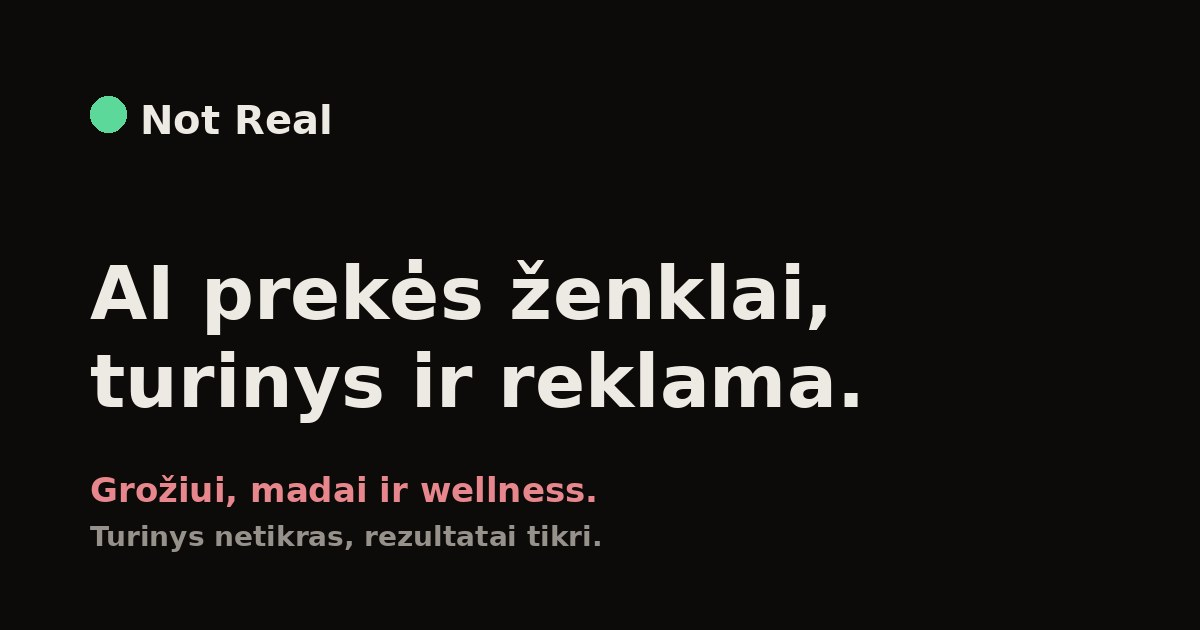
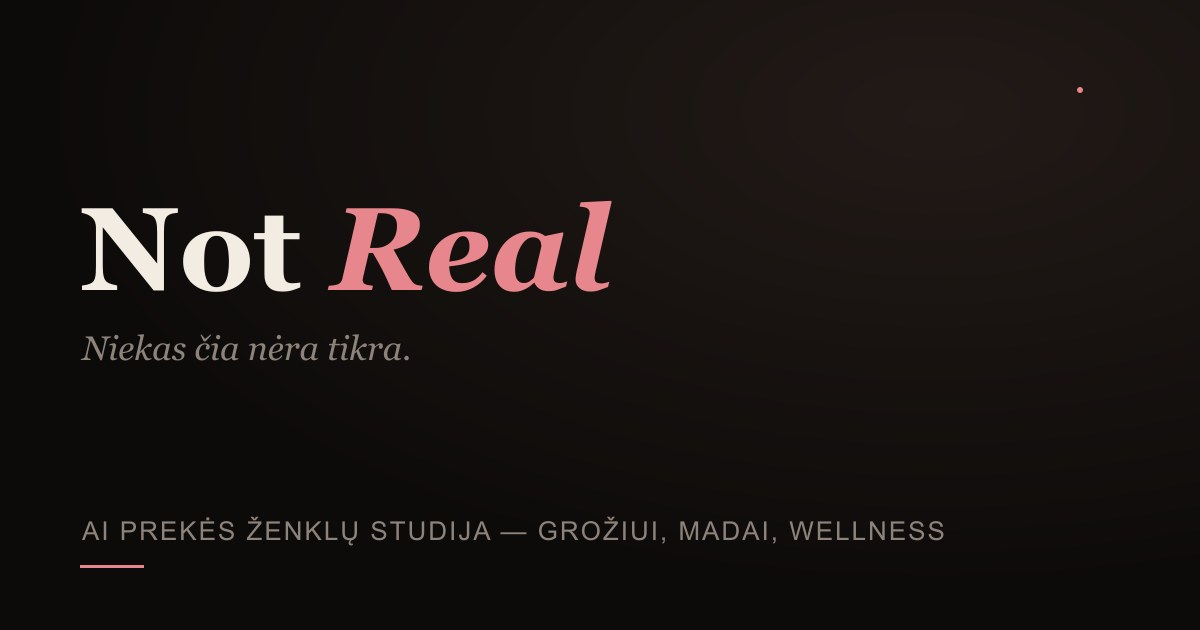
Add FAQ section, expand case studies, and SEO/PWA polish
Adds FAQPage schema + accordion, richer keyword copy on work cards,
branded og.jpg, manifest/touch icons generated from favicon, and GA4.

Changed region(s): [[0.0617, 0.3016, 0.7092, 0.6937], [0.0617, 0.754, 0.8017, 0.9048], [0.0617, 0.1508, 0.2775, 0.2111]]

diff --git a/src/i18n/ui.ts b/src/i18n/ui.ts
@@ -29,6 +29,7 @@ export const ui: Record<string, Record<string, string>> = {
     "menu.work": "DARBAI",        "menu.work_l": "Projektai",
     "menu.showreel_l": "Showreel",
     "menu.about": "APIE",         "menu.about_l": "Kas mes",
+    "menu.faq": "KLAUSIMAI",      "menu.faq_l": "FAQ",
     "menu.contact": "KONTAKTAI",  "menu.contact_l": "Susisiek",
     "menu.email": "( El. paštas )",
     "menu.instagram": "( Instagram )",
@@ -52,12 +53,31 @@ export const ui: Record<string, Record<string, string>> = {
     "work.statement": "Prekės ženklai, kurių <em>nėra.</em><br>Bet galėjo būti.",
     "work.lead": "Kiekvienas — pilnas pasaulis, sukurtas su AI nuo nulio. Tavo realūs darbai ir video atsiras čia.",
     "work.1_ph": "GELO", "work.1_t": "GELO", "work.1_d": "Ledų prekės ženklas",
+    "work.1_desc": "GELO — pilnai AI sugalvotas ledų prekės ženklas: vizualinė tapatybė, pakuotės dizainas ir socialinių tinklų turinys, sukurti per kelias dienas, ne mėnesius. Pavyzdys, kaip AI turinys atstoja brangią fotosesiją maisto ir grožio prekės ženklams.",
     "work.2_ph": "Etiketė", "work.2_t": "Mados etiketė", "work.2_d": "Prekės ženklas + reels",
+    "work.2_desc": "Mados etiketė su pilnu AI sugeneruotu look book'u ir reels serija — be modelių, be studijos nuomos. Rodo, kaip AI reklama mažam mados prekės ženklui sumažina produkcijos kaštus iki minimumo.",
     "work.3_ph": "Grožis", "work.3_t": "Grožio brendas", "work.3_d": "Kampanija + reklama",
+    "work.3_desc": "Grožio brendo kampanija su AI sukurtais vaizdais ir Meta reklamos kūriniais, pritaikytais grožio klinikoms ir salonams Kaune. AI turinys grožio klinikai padidina matomumą be nuolatinio fotografo poreikio.",
     "work.4_ph": "Wellness", "work.4_t": "Wellness studija", "work.4_d": "Turinys + identitetas",
+    "work.4_desc": "Wellness studijos prekės ženklo identitetas ir turinio strategija, sukurta AI — nuo logotipo iki socialinių tinklų kalendoriaus. Pavyzdys, kaip wellness verslas atrodo premium lygio be didelio biudžeto.",
 
     "cta.h2": "Mes ne tiesiog kuriam turinį. Mes padarom prekės ženklus, kurių <em>neįmanoma ignoruoti.</em>",
     "cta.btn": "Nebūk drovus — parašyk →",
+
+    "faq.kicker": "Klausimai",
+    "faq.h2": "Dažniausiai <em>užduodami</em> klausimai.",
+    "faq.1_q": "Kas yra AI turinys ir AI prekės ženklas?",
+    "faq.1_a": "AI turinys — tai vizualai, video ir reklamos kūriniai, sukurti naudojant dirbtinį intelektą be tradicinės fotosesijos ar filmavimo. Kuriame pilną prekės ženklo identitetą — nuo logotipo iki reels — taupydami laiką ir biudžetą.",
+    "faq.2_q": "Kiek kainuoja AI turinio ar prekės ženklo kūrimas?",
+    "faq.2_a": "Kaina priklauso nuo apimties — vienkartinė kampanija skiriasi nuo pilno prekės ženklo kūrimo. Parašyk per kontaktų formą, koks tavo verslas ir ko reikia — atsiųsime nemokamą demo ir pasiūlymą.",
+    "faq.3_q": "Kiek užtrunka projektas?",
+    "faq.3_a": "Dėl AI darbo eigos pirmą turinio paketą ar prekės ženklo koncepciją galime parodyti per kelias dienas, ne savaites ar mėnesius, kaip su tradicine fotosesija ar filmavimu.",
+    "faq.4_q": "Kam tinka šios paslaugos?",
+    "faq.4_a": "Dirbame su grožio klinikomis, mados prekės ženklais ir wellness verslais — daugiausiai Kaune ir Lietuvoje, bet kuriame turinį ir tarptautinėms auditorijoms.",
+    "faq.5_q": "Ar reikia tikrų nuotraukų ar video?",
+    "faq.5_a": "Ne, dauguma turinio gali būti sukurta be tikros fotosesijos. Jei vėliau norėsi įtraukti tikrus produkto kadrus ar video, lengvai sujungiame juos su AI sukurtu turiniu.",
+    "faq.6_q": "Kaip pradėti bendradarbiavimą?",
+    "faq.6_a": "Parašyk per kontaktų formą arba Instagram, papasakok apie savo verslą — atsiųsime nemokamą demo turinį, pritaikytą tau, be įsipareigojimų.",
 
     "contact.kicker": "Kontaktai",
     "contact.h2": "Gauk nemokamą <em>demo.</em>",
@@ -93,6 +113,7 @@ export const ui: Record<string, Record<string, string>> = {
     "menu.work": "WORK",         "menu.work_l": "Projects",
     "menu.showreel_l": "Showreel",
     "menu.about": "ABOUT",       "menu.about_l": "Who we are",
+    "menu.faq": "FAQ",           "menu.faq_l": "FAQ",
     "menu.contact": "CONTACT",   "menu.contact_l": "Get in touch",
     "menu.email": "( Email )",
     "menu.instagram": "( Instagram )",
@@ -116,12 +137,31 @@ export const ui: Record<string, Record<string, string>> = {
     "work.statement": "Brands that <em>don't exist.</em><br>But could have.",
     "work.lead": "Each one — a whole world, built with AI from scratch. Your real work and videos will live here.",
     "work.1_ph": "GELO", "work.1_t": "GELO", "work.1_d": "Ice cream brand",
+    "work.1_desc": "GELO is a fully AI-imagined ice cream brand: visual identity, packaging design and social content built in days, not months. A blueprint for how AI content replaces an expensive photoshoot for food and beauty brands.",
     "work.2_ph": "Label", "work.2_t": "Fashion label", "work.2_d": "Brand + reels",
+    "work.2_desc": "A fashion label with a full AI-generated lookbook and reels series — no models, no studio rental. Shows how AI ads cut production costs to the minimum for a small fashion brand.",
     "work.3_ph": "Beauty", "work.3_t": "Beauty brand", "work.3_d": "Campaign + ads",
+    "work.3_desc": "A beauty brand campaign with AI-generated visuals and Meta ad creatives built for beauty clinics and salons. AI content for a beauty clinic boosts visibility without needing a photographer on retainer.",
     "work.4_ph": "Wellness", "work.4_t": "Wellness studio", "work.4_d": "Content + identity",
+    "work.4_desc": "A wellness studio brand identity and content strategy built with AI — from logo to a full social media calendar. An example of how a wellness business can look premium without a big budget.",
 
     "cta.h2": "We don't just make content. We build brands that are <em>impossible to ignore.</em>",
     "cta.btn": "Don't be shy — say hi →",
+
+    "faq.kicker": "FAQ",
+    "faq.h2": "Frequently <em>asked</em> questions.",
+    "faq.1_q": "What is AI content and an AI brand?",
+    "faq.1_a": "AI content is visuals, video and ad creatives made with artificial intelligence instead of a traditional photoshoot or film shoot. We build a full brand identity — from logo to reels — saving time and budget.",
+    "faq.2_q": "How much does AI content or brand work cost?",
+    "faq.2_a": "Price depends on scope — a one-off campaign differs from building a full brand. Tell us about your business through the contact form and we'll send a free demo and a quote.",
+    "faq.3_q": "How long does a project take?",
+    "faq.3_a": "Thanks to the AI workflow, we can show a first content batch or brand concept in days, not the weeks or months a traditional photoshoot or film shoot would take.",
+    "faq.4_q": "Who is this for?",
+    "faq.4_a": "We work with beauty clinics, fashion brands and wellness businesses — mostly in Kaunas and Lithuania, but we also build content for international audiences.",
+    "faq.5_q": "Do I need real photos or video?",
+    "faq.5_a": "No, most content can be built without a real photoshoot. If you want to add real product shots or video later, we can easily blend them with AI-generated content.",
+    "faq.6_q": "How do I get started?",
+    "faq.6_a": "Message us through the contact form or Instagram and tell us about your business — we'll send a free demo made for you, no commitment.",
 
     "contact.kicker": "Contact",
     "contact.h2": "Get a free <em>demo.</em>",

diff --git a/src/styles/global.css b/src/styles/global.css
@@ -141,6 +141,19 @@ header{position:fixed;top:0;left:0;right:0;z-index:90;mix-blend-mode:difference}
 .gal-cap .gi{font-family:"Switzer";color:var(--muted);font-size:13px;letter-spacing:0.1em}
 .gal-cap .gt{font-family:"Switzer",serif;font-size:20px;font-weight:500}
 .gal-cap .gd{color:var(--muted);font-size:13px}
+.gal-item .gp{margin-top:10px;color:var(--muted);font-size:14px;line-height:1.5;max-width:46ch}
+
+/* FAQ */
+.faq-list{margin-top:clamp(24px,4vw,48px);border-top:1px solid var(--line)}
+.faq-item{border-bottom:1px solid var(--line)}
+.faq-item summary{cursor:pointer;list-style:none;padding:20px 0;font-family:"Switzer",serif;
+  font-size:clamp(16px,2vw,20px);font-weight:500;display:flex;justify-content:space-between;
+  align-items:center;gap:16px}
+.faq-item summary::after{content:"+";font-size:22px;font-weight:400;flex-shrink:0;
+  transition:transform .3s ease}
+.faq-item[open] summary::after{transform:rotate(45deg)}
+.faq-item summary::-webkit-details-marker{display:none}
+.faq-item p{margin:0 0 20px;color:var(--muted);font-size:15px;line-height:1.6;max-width:62ch}
 
 /* big CTA */
 .cta{text-align:center}

diff --git a/README.md b/README.md
@@ -4,6 +4,36 @@ Daugiakalbė statinė landing svetainė (Astro). Numatytoji kalba **LT** (šakny
 
 ---
 
+## Būsena (2026-06-28)
+
+**Atlikta:**
+
+- `npm install` + `npm run build` patikrinti — praeina be klaidų
+- `astro.config.mjs` ir `public/robots.txt` sukonfigūruoti GitHub Pages URL be domeno: `site: "https://notreal-studio.github.io"`, `base: "/not-real/"`
+- Web3Forms raktas įrašytas (`Landing.astro`)
+- Instagram nuoroda įrašyta visur: `https://instagram.com/notreal.inga`
+- `git init`, commit, push į `https://github.com/notreal-studio/not-real.git` (branch `main`)
+- **FAQ sekcija** (6 klausimai LT+EN, `<details>` akordeonas) + `FAQPage` JSON-LD schema
+- **Darbų aprašymai** — 4 case study kortelės papildytos raktažodžiais praturtintu tekstu
+- **og.jpg** — sugeneruotas brendinuotas vaizdas (1200×630) pagal esamus brand spalvas/šriftus
+- **apple-touch-icon.png + icon-192/512.png + site.webmanifest** — sugeneruoti iš `favicon.svg`, prijungti `Base.astro` `<head>`
+- **Google Analytics 4** — sukurta property "not-real", Measurement ID `G-6TMLTSEL2S` įrašytas `Base.astro`
+
+**Kiti žingsniai (rankiniu būdu, GitHub svetainėje):**
+
+1. **Settings → Pages → Build and deployment → Source: GitHub Actions** — be šito automatinis deploy neprasidės
+2. Patikrinti **Actions** skiltyje, kad workflow „Deploy to GitHub Pages" baigėsi sėkmingai (žalia varnelė)
+3. Atidaryti `https://notreal-studio.github.io/not-real/` ir `/en/`, patikrinti meniu, kalbos jungiklį, kontaktų formą (testinis pateikimas per Web3Forms)
+4. GA4 → po deploy patikrinti **Realtime** ataskaitą, kad duomenys renkasi
+
+**Atidėta / dar nenuspręsta:**
+
+- **El. paštas** — placeholder `[email redacted]` paliktas, kol bus pasirinktas pašto provideris (svarstomas `[email redacted]`)
+- **Domenas** — kol kas naudojam GitHub Pages URL; svarstomi `.lt` / `.eu` / `.ai`, reikės pasirinkti vieną kaip canonical (kiti — redirect), tada atnaujinti `astro.config.mjs` (`base: "/"`), `robots.txt`, ir pridėti `public/CNAME` + DNS A įrašus
+- SEO turinio plėtra (FAQ, case studies, raktažodžių puslapiai) ir Google Search Console / Google Business Profile setup — žr. **NOT-REAL-PALEIDIMAS-IR-SEO.md**
+
+---
+
 ## Paleisti lokaliai
 ```bash
 npm install        # tik pirmą kartą